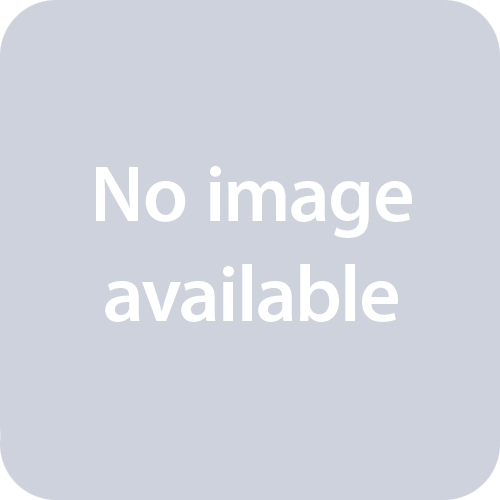
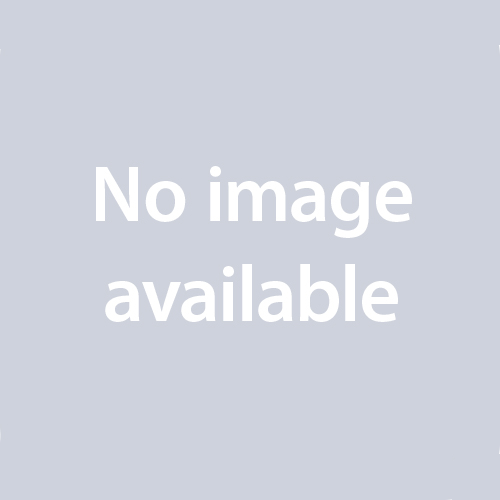
Cambiado el tamaño de las imagenes grandes de seccion en css Quitados bordes blancos de placeholder

diff --git a/assets/css/custom.css b/assets/css/custom.css
@@ -527,6 +527,14 @@ body {
 .thumbnail-custom  > p{
     height: 80px !important;
     overflow: hidden;
+    padding-top: 10px !important;
+}
+
+
+.thumbnail-custom  > img{
+
+    width: 345px !important;
+    height: 260px !important;
 
 }
 
